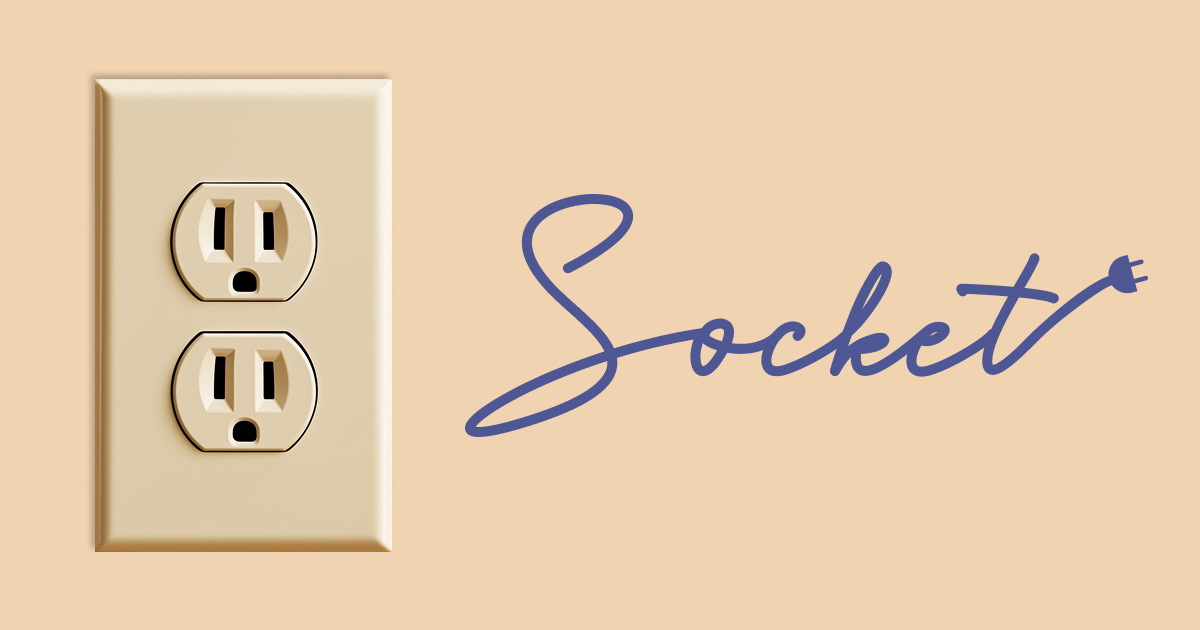
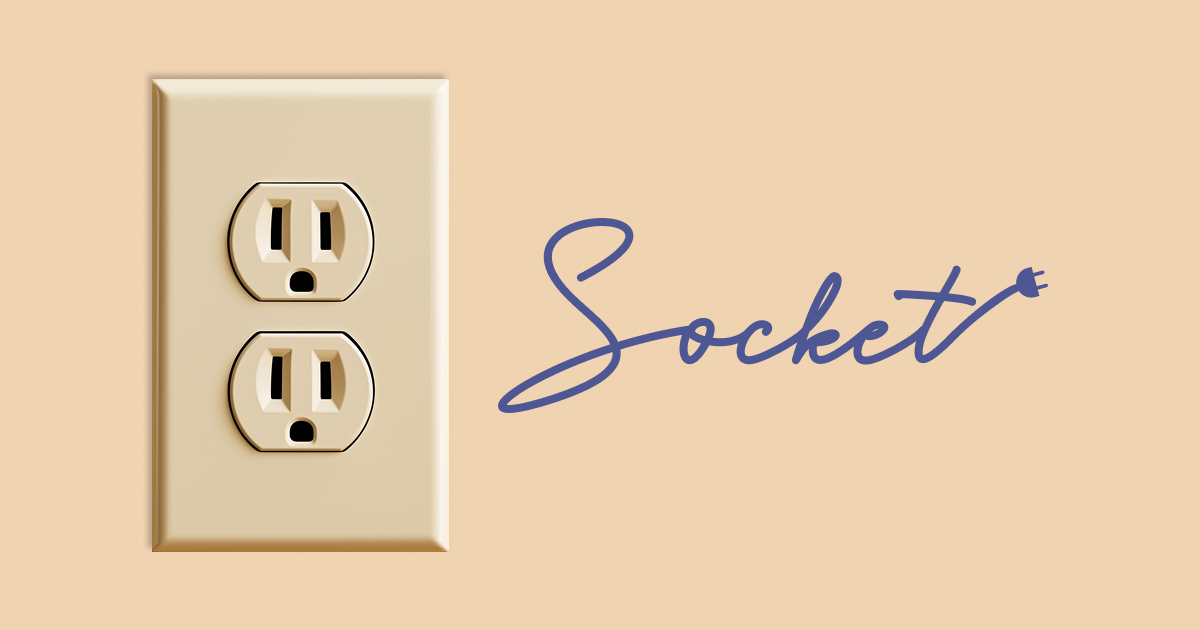
Socket is live
Splash art resaved with a smaller wordmark, and it now clears every frame:

                wordmark width    clips below aspect    worst real frame
    mobile        82% -> 64%        0.512 -> 0.403        7px margin
    desktop       88% -> 68%        0.768 -> 0.598        8px margin

Phones run 0.42 to 0.46, dropping to about 0.418 when the URL bar collapses and
the viewport grows, and the desktop card is 0.618. Both thresholds now sit below
everything, so nothing is cut on any device, including the collapsed case that
was losing 44px before. Margins are thin but positive, and measured rather than
eyeballed. The photoreal duplex direction is untouched — only the script got
smaller.

Live: homepage card and description block, sitemap entry taking it to 28 urls,
splash wired with a cache-busting version so returning players get the new art
rather than the cropped one.

Changed region(s): [[0.0617, 0.1206, 0.9558, 0.8746]]

diff --git a/index.html b/index.html
@@ -251,6 +251,14 @@
           <div class="game-card-cta">Play now</div>
         </div>
       </a>
+      <a class="game-card" href="./socket/">
+        <div class="game-card-image" style="background-image: url('./images/socket-teaser.jpg')"></div>
+        <div class="game-card-body">
+          <div class="game-card-name">Socket</div>
+          <div class="game-card-desc">Everything wants to be on and the wall board is full of awkward plugs. A fat one takes a socket and covers its neighbours, and every lead only stretches so far. Get the lot plugged in at once.</div>
+          <div class="game-card-cta">Play now</div>
+        </div>
+      </a>
       <a class="game-card" href="./sluice/">
         <div class="game-card-image" style="background-image: url('./images/sluice-teaser.jpg')"></div>
         <div class="game-card-body">
@@ -324,6 +332,9 @@
 
       <h3><a href="/orbit/">Orbit</a> — ring-spinning light puzzle</h3>
       <p>A quiet puzzle built from concentric rings. A light sits at the hub in the middle, and the rings around it are strung with broken track turned the wrong way. Spin each ring until the pieces line up and the light threads its way out to every bulb on the rim, settling the whole board into a symmetric mandala. Later levels gear pairs of rings together, so turning one turns its partner the other way.</p>
+
+      <h3><a href="/socket/">Socket</a> — the power strip puzzle</h3>
+      <p>Everyone has had this fight. Six things need to be on, the board has eight sockets, and it still does not work, because the chunky one covers the sockets either side of it and the lamp's lead will not quite reach the far end. Socket is that fight as a puzzle. A plug uses one socket but its body covers however many its plastic is wide, and every lead comes in from off the wall with only so much give, which decides where each plug is even allowed to go. Pick one up and the board shows you what it knows.</p>
 
       <h3><a href="/sluice/">Sluice</a> — sliding pipe puzzle</h3>
       <p>A grid of pipes with a tap and a ring of flowers around its edge. You never turn a pipe in Sluice. You drag an entire row or column, and it slides as one piece, wrapping around so whatever leaves one edge returns at the other. Because rows and columns cross, nothing can be solved a piece at a time: fixing one corner moves a tile out of every column it touches. Every board is generated with exactly one solution, and the trick to it is a four slide sequence that changes only three tiles and leaves the rest of the board exactly where it was.</p>

diff --git a/socket/play.css b/socket/play.css
@@ -3,5 +3,5 @@
 
    splash-desktop.jpg is 1120x1280, exactly the ratio of the 470x760 desktop
    card once the frame is accounted for, so cover-sizing crops very little. */
-body.mode-desktop .splash { background-image: url('./splash-desktop.jpg'); }
-body.mode-mobile  .splash { background-image: url('./splash-mobile.jpg'); }
+body.mode-desktop .splash { background-image: url('./splash-desktop.jpg?v=2'); }
+body.mode-mobile  .splash { background-image: url('./splash-mobile.jpg?v=2'); }
